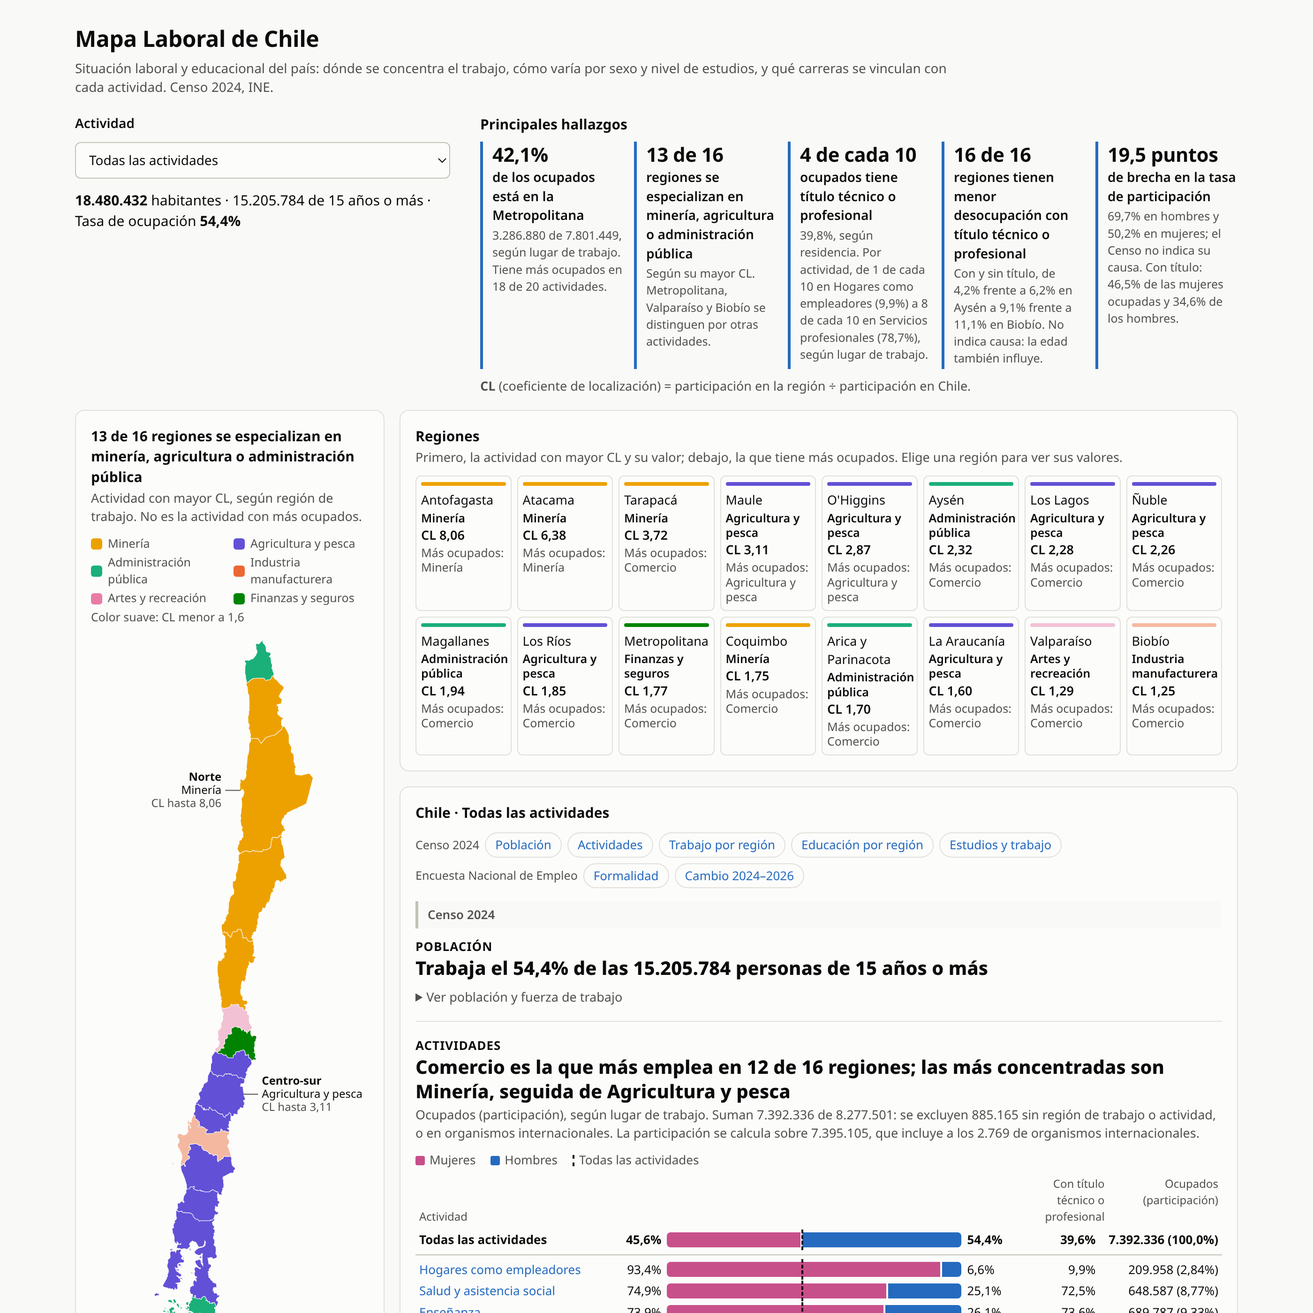
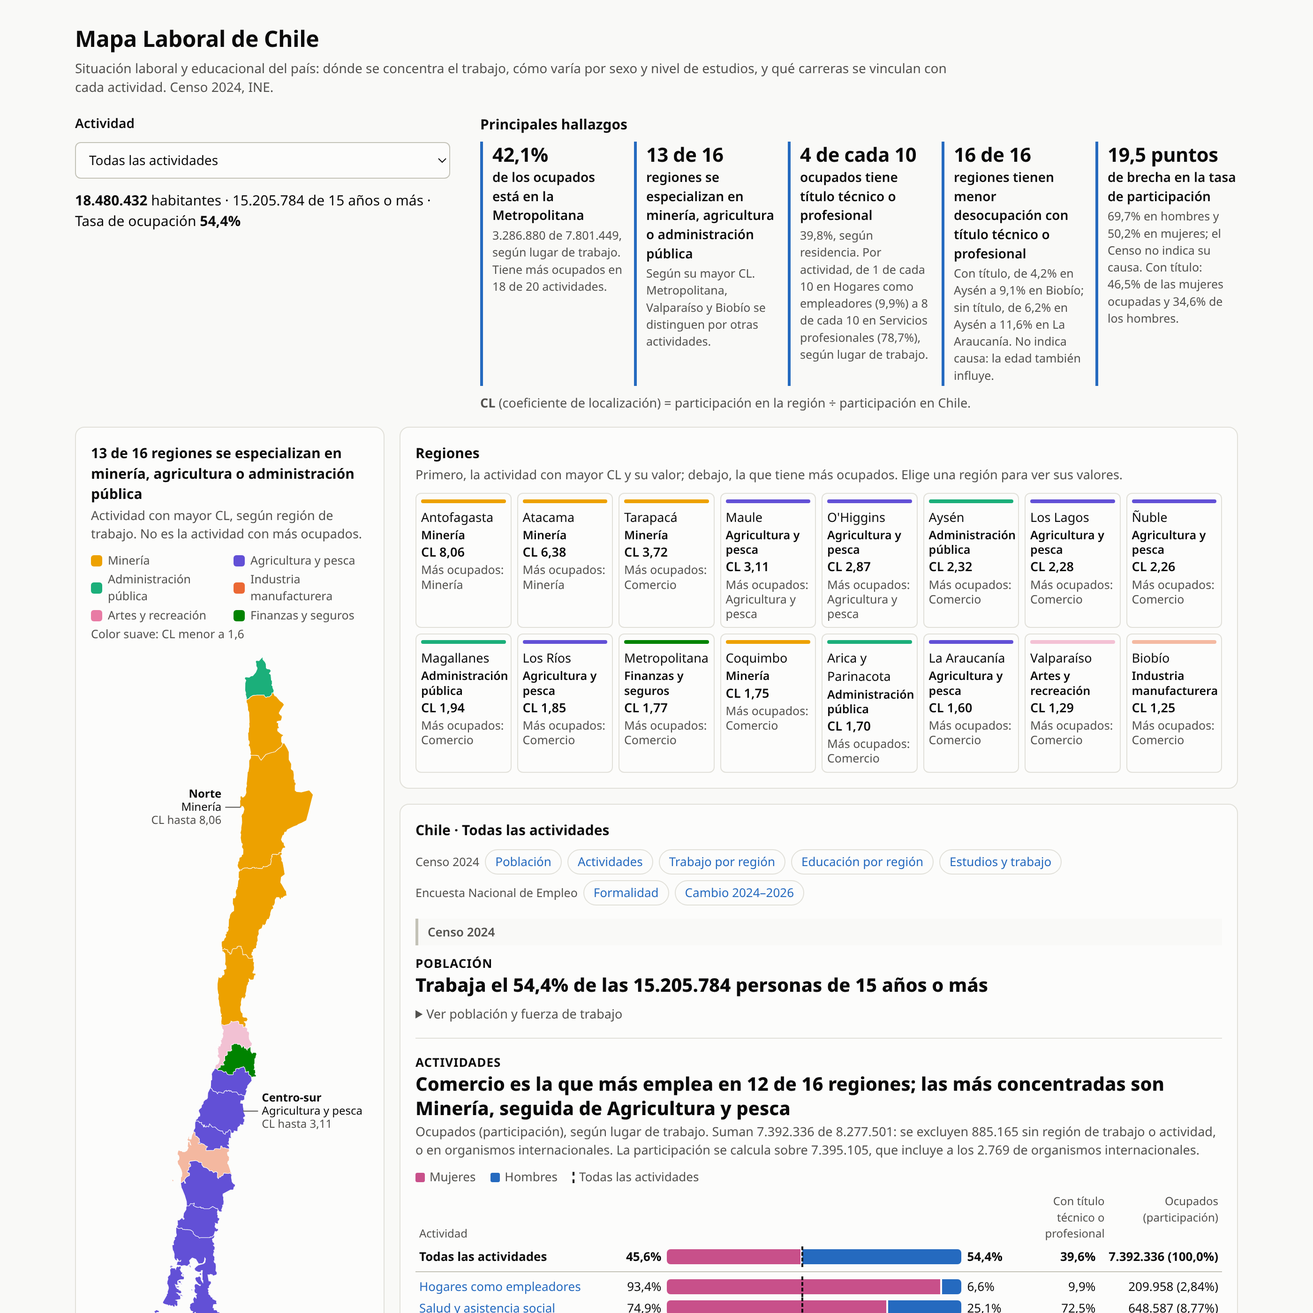
Aclara el gráfico de dónde trabajan los ocupados y separa los rangos de desocupación por título
- La leyenda del traslado describe la medida sin afirmar traslados; la nota y el texto emergente dan la cifra directa (126 por cada 100 en Antofagasta, 94 en Chile).
- La desocupación con y sin título se da en dos rangos, cada uno con sus extremos: sin título, el máximo es La Araucanía (11,6%), no Biobío.

diff --git a/docs/index.html b/docs/index.html
@@ -404,7 +404,7 @@ function pintarResumen(){
    `${num(EST.pct_con_titulo,1)}%, según residencia. Por actividad, de ${deCada10(conTitulo(tMin.niveles))} en ${esc(tMin.corto)} (${num(conTitulo(tMin.niveles),1)}%) `+
    `a ${deCada10(conTitulo(tMax.niveles))} en ${esc(tMax.corto)} (${num(conTitulo(tMax.niveles),1)}%), según lugar de trabajo.`],
   [`${ed.menor} de ${ed.n}`,"regiones tienen menor desocupación con título técnico o profesional",
-   `Con y sin título, ${ed.rango}. No indica causa: la edad también influye.`],
+   `Con título, ${ed.con}; sin título, ${ed.sin}. No indica causa: la edad también influye.`],
   [`${num(brecha,1)} puntos`,"de brecha en la tasa de participación",
    `${num(sx.hombres.tasa_participacion,1)}% en hombres y ${num(sx.mujeres.tasa_participacion,1)}% en mujeres; el Censo no indica su causa. `+
    `Con título: ${num(EST.sexo.mujeres,1)}% de las mujeres ocupadas y ${num(EST.sexo.hombres,1)}% de los hombres.`]]
@@ -449,10 +449,13 @@ function pintar(){
 }
 // Relación entre las dos realidades, región por región: se escribe desde los datos para no afirmar más de lo que muestran.
 function extremosDesoc(){const d=Object.entries(EST.desocupacion_titulo),menor=d.filter(([,v])=>v[0]<v[1]).length;
- const [a,va]=d.reduce((m,x)=>x[1][0]<m[1][0]?x:m),[b,vb]=d.reduce((m,x)=>x[1][0]>m[1][0]?x:m);
- return {menor,n:d.length,rango:`de ${num(va[0],1)}% frente a ${num(va[1],1)}% en ${nomReg(Number(a))} a ${num(vb[0],1)}% frente a ${num(vb[1],1)}% en ${nomReg(Number(b))}`}}
+ // Un rango por grupo, cada uno con sus extremos: con un solo rango (por la tasa con título), Biobío parecía la región
+ // con más desocupación sin título, que es La Araucanía, y cuatro cifras en una línea no se leían a simple vista.
+ const rango=i=>{const [a,va]=d.reduce((m,x)=>x[1][i]<m[1][i]?x:m),[b,vb]=d.reduce((m,x)=>x[1][i]>m[1][i]?x:m);
+  return `de ${num(va[i],1)}% en ${nomReg(Number(a))} a ${num(vb[i],1)}% en ${nomReg(Number(b))}`};
+ return {menor,n:d.length,con:rango(0),sin:rango(1)}}
 function desocTitulo(){const e=extremosDesoc();
- return `${e.menor===e.n?`En las ${e.n} regiones`:`En ${e.menor} de ${e.n} regiones`}, la tasa de desocupación es menor con título técnico o profesional que sin título superior: va ${e.rango}.`}
+ return `${e.menor===e.n?`En las ${e.n} regiones`:`En ${e.menor} de ${e.n} regiones`}, la tasa de desocupación es menor con título técnico o profesional que sin título superior. Con título va ${e.con}; sin título, ${e.sin}.`}
 // Evolución según ENE: las frases salen de la lectura de cada fila, que solo dice "sube" o "baja" si el rango
 // entero queda a un lado del cero.
 // "Dentro del margen" y no "sin cambio claro": dice por qué no se afirma un cambio, aunque las columnas difieran.
@@ -665,21 +668,26 @@ function graficoSituacionRegion(){const ch=POB.chile,tasa=d=>d.tasa_desocupacion
 // entregar trabajadores. Supone que esa falta de dato pesa igual en cada región. Barras desde un centro (igual que
 // Chile) con dos colores, uno por sentido. La escala es la misma a ambos lados, para no agrandar las diferencias chicas,
 // y el centro se corre a la izquierda porque ninguna región baja de −10%: así el espacio va a las barras.
+// La leyenda describe la medida y no afirma traslados: una barra negativa también puede venir de más ocupados sin región de trabajo.
 function graficoTraslado(){const ch=POB.chile,base=ch.lugar_trabajo/ch.trabajan,dif=x=>100*(x.lugar_trabajo/x.trabajan/base-1);
  const filas=DATOS.orden.map(r=>[r,POB.regiones[r],dif(POB.regiones[r])]).sort((a,b)=>b[2]-a[2]||a[0]-b[0]);
  const lo=Math.min(0,Math.floor(filas[filas.length-1][2]/10)*10),hi=Math.max(0,Math.ceil(filas[0][2]/10)*10),cero=100*-lo/(hi-lo),ancho=v=>100*Math.abs(v)/(hi-lo);
  // El signo sale de la cifra publicada: Maule (−0,04) se lee 0,0%, no −0,0%.
  const fila=([r,x,v])=>{const r1=Math.round(10*v)/10,txt=`${r1>0?"+":r1<0?"−":""}${num(Math.abs(r1),1)}%`,t=nomReg(r);
-  const partes=[`${num(x.lugar_trabajo)} ocupados trabajan en la región`,`${num(x.trabajan)} ocupados viven en ella`,`${txt} frente a Chile`];
+  const partes=[`${num(x.lugar_trabajo)} ocupados trabajan en la región`,`${num(x.trabajan)} ocupados viven en ella`,
+   `${num(100*x.lugar_trabajo/x.trabajan,0)} trabajan por cada 100 que viven (Chile: ${num(100*base,0)})`,`${txt} frente a Chile`];
   return `<button class="cl-fila tr-fila" data-r="${r}" data-tip="${`<strong>${t}</strong><br>${partes.join("<br>")}`.replace(/"/g,"&quot;")}" aria-label="${t}: ${partes.join(", ")}">`+
    `<span class="cl-nombre">${t}</span><span class="tr-barra" aria-hidden="true"><b style="left:${cero}%"></b>`+
    (v>=0?`<i class="recibe" style="left:${cero}%;width:${ancho(v)}%"></i><span class="cl-valor" style="left:calc(${cero+ancho(v)}% + 6px)">${txt}</span>`
         :`<i class="entrega" style="right:${100-cero}%;width:${ancho(v)}%"></i><span class="cl-valor" style="right:calc(${100-cero+ancho(v)}% + 6px)">${txt}</span>`)+`</span></button>`};
  return `<figure class="graf-cl" style="margin-left:0;margin-right:0"><figcaption class="gs-leyenda"><span><strong style="color:var(--t1)">Dónde trabajan los ocupados de cada región</strong></span>`+
-  `<span><i class="entrega"></i>Sus ocupados trabajan en otras regiones</span><span><i class="recibe"></i>Recibe ocupados de otras regiones</span></figcaption>`+
+  `<span><i class="entrega"></i>Trabajan en ella menos de los que viven, frente a Chile</span><span><i class="recibe"></i>Trabajan en ella más de los que viven, frente a Chile</span></figcaption>`+
   filas.map(fila).join("")+`</figure>`+
-  `<p class="nota" style="margin:2px 0 8px">Ocupados que trabajan en la región por cada uno que vive en ella, comparado con Chile (0 = igual que Chile). `+
-  `Se compara con Chile porque ${num(100*(1-base),1)}% de los ocupados no tiene región de trabajo informada.</p>`}
+  // El % es un índice frente a Chile y se leía como "34% más trabajadores": el ejemplo da la cifra directa.
+  `<p class="nota" style="margin:2px 0 8px">Ocupados que trabajan en la región por cada 100 que viven en ella, comparado con Chile (0 = igual que Chile). `+
+  `Por ejemplo, en ${nomReg(filas[0][0])} trabajan ${num(100*filas[0][1].lugar_trabajo/filas[0][1].trabajan,0)} por cada 100 que viven, y en Chile ${num(100*base,0)}: `+
+  `${num(filas[0][2],1)}% más. Se compara con Chile porque ${num(100*(1-base),1)}% de los ocupados no tiene región de trabajo informada, `+
+  `y se supone que esa falta de dato pesa igual en cada región: donde pese más, la barra baja aunque sus ocupados no trabajen en otra región.</p>`}
 // Educación por región: barras apiladas solo con la parte titulada (profesional abajo, técnico encima), de mayor a menor
 // % con título, con "sin título superior" como cifra a la derecha para que los tres niveles sumen 100 a la vista.
 // Se descartaron las barras 100%: sin título ocupa 67% a 79% de cada barra y la diferencia entre regiones (12 puntos)

diff --git a/src/Visualizacion/web/js/vistas/resumen.js b/src/Visualizacion/web/js/vistas/resumen.js
@@ -5,10 +5,13 @@ Vista inicial: Chile y todas las actividades.
 */
 // Relación entre las dos realidades, región por región: se escribe desde los datos para no afirmar más de lo que muestran.
 function extremosDesoc(){const d=Object.entries(EST.desocupacion_titulo),menor=d.filter(([,v])=>v[0]<v[1]).length;
- const [a,va]=d.reduce((m,x)=>x[1][0]<m[1][0]?x:m),[b,vb]=d.reduce((m,x)=>x[1][0]>m[1][0]?x:m);
- return {menor,n:d.length,rango:`de ${num(va[0],1)}% frente a ${num(va[1],1)}% en ${nomReg(Number(a))} a ${num(vb[0],1)}% frente a ${num(vb[1],1)}% en ${nomReg(Number(b))}`}}
+ // Un rango por grupo, cada uno con sus extremos: con un solo rango (por la tasa con título), Biobío parecía la región
+ // con más desocupación sin título, que es La Araucanía, y cuatro cifras en una línea no se leían a simple vista.
+ const rango=i=>{const [a,va]=d.reduce((m,x)=>x[1][i]<m[1][i]?x:m),[b,vb]=d.reduce((m,x)=>x[1][i]>m[1][i]?x:m);
+  return `de ${num(va[i],1)}% en ${nomReg(Number(a))} a ${num(vb[i],1)}% en ${nomReg(Number(b))}`};
+ return {menor,n:d.length,con:rango(0),sin:rango(1)}}
 function desocTitulo(){const e=extremosDesoc();
- return `${e.menor===e.n?`En las ${e.n} regiones`:`En ${e.menor} de ${e.n} regiones`}, la tasa de desocupación es menor con título técnico o profesional que sin título superior: va ${e.rango}.`}
+ return `${e.menor===e.n?`En las ${e.n} regiones`:`En ${e.menor} de ${e.n} regiones`}, la tasa de desocupación es menor con título técnico o profesional que sin título superior. Con título va ${e.con}; sin título, ${e.sin}.`}
 // Evolución según ENE: las frases salen de la lectura de cada fila, que solo dice "sube" o "baja" si el rango
 // entero queda a un lado del cero.
 // "Dentro del margen" y no "sin cambio claro": dice por qué no se afirma un cambio, aunque las columnas difieran.
@@ -221,21 +224,26 @@ function graficoSituacionRegion(){const ch=POB.chile,tasa=d=>d.tasa_desocupacion
 // entregar trabajadores. Supone que esa falta de dato pesa igual en cada región. Barras desde un centro (igual que
 // Chile) con dos colores, uno por sentido. La escala es la misma a ambos lados, para no agrandar las diferencias chicas,
 // y el centro se corre a la izquierda porque ninguna región baja de −10%: así el espacio va a las barras.
+// La leyenda describe la medida y no afirma traslados: una barra negativa también puede venir de más ocupados sin región de trabajo.
 function graficoTraslado(){const ch=POB.chile,base=ch.lugar_trabajo/ch.trabajan,dif=x=>100*(x.lugar_trabajo/x.trabajan/base-1);
  const filas=DATOS.orden.map(r=>[r,POB.regiones[r],dif(POB.regiones[r])]).sort((a,b)=>b[2]-a[2]||a[0]-b[0]);
  const lo=Math.min(0,Math.floor(filas[filas.length-1][2]/10)*10),hi=Math.max(0,Math.ceil(filas[0][2]/10)*10),cero=100*-lo/(hi-lo),ancho=v=>100*Math.abs(v)/(hi-lo);
  // El signo sale de la cifra publicada: Maule (−0,04) se lee 0,0%, no −0,0%.
  const fila=([r,x,v])=>{const r1=Math.round(10*v)/10,txt=`${r1>0?"+":r1<0?"−":""}${num(Math.abs(r1),1)}%`,t=nomReg(r);
-  const partes=[`${num(x.lugar_trabajo)} ocupados trabajan en la región`,`${num(x.trabajan)} ocupados viven en ella`,`${txt} frente a Chile`];
+  const partes=[`${num(x.lugar_trabajo)} ocupados trabajan en la región`,`${num(x.trabajan)} ocupados viven en ella`,
+   `${num(100*x.lugar_trabajo/x.trabajan,0)} trabajan por cada 100 que viven (Chile: ${num(100*base,0)})`,`${txt} frente a Chile`];
   return `<button class="cl-fila tr-fila" data-r="${r}" data-tip="${`<strong>${t}</strong><br>${partes.join("<br>")}`.replace(/"/g,"&quot;")}" aria-label="${t}: ${partes.join(", ")}">`+
    `<span class="cl-nombre">${t}</span><span class="tr-barra" aria-hidden="true"><b style="left:${cero}%"></b>`+
    (v>=0?`<i class="recibe" style="left:${cero}%;width:${ancho(v)}%"></i><span class="cl-valor" style="left:calc(${cero+ancho(v)}% + 6px)">${txt}</span>`
         :`<i class="entrega" style="right:${100-cero}%;width:${ancho(v)}%"></i><span class="cl-valor" style="right:calc(${100-cero+ancho(v)}% + 6px)">${txt}</span>`)+`</span></button>`};
  return `<figure class="graf-cl" style="margin-left:0;margin-right:0"><figcaption class="gs-leyenda"><span><strong style="color:var(--t1)">Dónde trabajan los ocupados de cada región</strong></span>`+
-  `<span><i class="entrega"></i>Sus ocupados trabajan en otras regiones</span><span><i class="recibe"></i>Recibe ocupados de otras regiones</span></figcaption>`+
+  `<span><i class="entrega"></i>Trabajan en ella menos de los que viven, frente a Chile</span><span><i class="recibe"></i>Trabajan en ella más de los que viven, frente a Chile</span></figcaption>`+
   filas.map(fila).join("")+`</figure>`+
-  `<p class="nota" style="margin:2px 0 8px">Ocupados que trabajan en la región por cada uno que vive en ella, comparado con Chile (0 = igual que Chile). `+
-  `Se compara con Chile porque ${num(100*(1-base),1)}% de los ocupados no tiene región de trabajo informada.</p>`}
+  // El % es un índice frente a Chile y se leía como "34% más trabajadores": el ejemplo da la cifra directa.
+  `<p class="nota" style="margin:2px 0 8px">Ocupados que trabajan en la región por cada 100 que viven en ella, comparado con Chile (0 = igual que Chile). `+
+  `Por ejemplo, en ${nomReg(filas[0][0])} trabajan ${num(100*filas[0][1].lugar_trabajo/filas[0][1].trabajan,0)} por cada 100 que viven, y en Chile ${num(100*base,0)}: `+
+  `${num(filas[0][2],1)}% más. Se compara con Chile porque ${num(100*(1-base),1)}% de los ocupados no tiene región de trabajo informada, `+
+  `y se supone que esa falta de dato pesa igual en cada región: donde pese más, la barra baja aunque sus ocupados no trabajen en otra región.</p>`}
 // Educación por región: barras apiladas solo con la parte titulada (profesional abajo, técnico encima), de mayor a menor
 // % con título, con "sin título superior" como cifra a la derecha para que los tres niveles sumen 100 a la vista.
 // Se descartaron las barras 100%: sin título ocupa 67% a 79% de cada barra y la diferencia entre regiones (12 puntos)

diff --git a/src/Visualizacion/web/js/mapa.js b/src/Visualizacion/web/js/mapa.js
@@ -49,7 +49,7 @@ function pintarResumen(){
    `${num(EST.pct_con_titulo,1)}%, según residencia. Por actividad, de ${deCada10(conTitulo(tMin.niveles))} en ${esc(tMin.corto)} (${num(conTitulo(tMin.niveles),1)}%) `+
    `a ${deCada10(conTitulo(tMax.niveles))} en ${esc(tMax.corto)} (${num(conTitulo(tMax.niveles),1)}%), según lugar de trabajo.`],
   [`${ed.menor} de ${ed.n}`,"regiones tienen menor desocupación con título técnico o profesional",
-   `Con y sin título, ${ed.rango}. No indica causa: la edad también influye.`],
+   `Con título, ${ed.con}; sin título, ${ed.sin}. No indica causa: la edad también influye.`],
   [`${num(brecha,1)} puntos`,"de brecha en la tasa de participación",
    `${num(sx.hombres.tasa_participacion,1)}% en hombres y ${num(sx.mujeres.tasa_participacion,1)}% en mujeres; el Censo no indica su causa. `+
    `Con título: ${num(EST.sexo.mujeres,1)}% de las mujeres ocupadas y ${num(EST.sexo.hombres,1)}% de los hombres.`]]

diff --git a/src/Visualizacion/controles.py b/src/Visualizacion/controles.py
@@ -139,8 +139,8 @@ def validar(datos: dict, geo: dict, html: str, codigo_js: dict[str, str], sin_li
         "Educación por región: Chile 28,2% con título": (lambda c: round(100 * (c[0] + c[1]) / sum(c), 1) == 28.2)(datos["estudios"]["educacion"]["chile"]),
         "Hallazgos: 4 de cada 10 ocupados con título; 1 de cada 10 en Hogares y 8 de cada 10 en Servicios profesionales": (lambda p: de_cada_10(datos["estudios"]["pct_con_titulo"]) == 4 and (de_cada_10(min(p)), de_cada_10(max(p))) == (1, 8))(
             [100 * (a["niveles"][0][0] + a["niveles"][1][0]) / sum(f[0] for f in a["niveles"]) for a in datos["actividades"]]),
-        "Desocupación menor con título en las 16 regiones: de Aysén (4,2% y 6,2%) a Biobío (9,1% y 11,1%)": (lambda d: len(d) == 16 and all(c < t for c, t in d.values()) and d["11"] == [4.2, 6.2] and d["8"] == [9.1, 11.1]
-            and min(d, key=lambda r: d[r][0]) == "11" and max(d, key=lambda r: d[r][0]) == "8")(datos["estudios"]["desocupacion_titulo"]),
+        "Desocupación menor con título en las 16 regiones: con título de Aysén (4,2%) a Biobío (9,1%); sin título de Aysén (6,2%) a La Araucanía (11,6%)": (lambda d: len(d) == 16 and all(c < t for c, t in d.values())
+            and [(r, d[r][i]) for i in (0, 1) for r in (min(d, key=lambda r: d[r][i]), max(d, key=lambda r: d[r][i]))] == [("11", 4.2), ("8", 9.1), ("11", 6.2), ("9", 11.6)])(datos["estudios"]["desocupacion_titulo"]),
         "Nivel por actividad: Minería en Chile 82.082 profesionales; Antofagasta 28.576": (lambda a: a["niveles"][0] == [82_082, 30.6, 61_954, 20_128, 27.3, 48.7] and a["regiones"][2]["niveles"][0] == [28_576, 28.0, 21_907, 6_669, 25.3, 43.3])(por_ciiu["B"]),
         "Nivel por actividad: solo faltan 2.757 ocupados sin nivel informado": sum(d["ocupados"] for a in datos["actividades"] for d in a["regiones"].values()) - sum(f[0] for a in datos["actividades"] for d in a["regiones"].values() for f in d["niveles"]) == 2_757,
         "Nivel por actividad: hombres y mujeres suman el total cuando ambos se muestran": all(f[2] + f[3] == f[0] for a in datos["actividades"] for d in [a, *a["regiones"].values()] for f in d["niveles"] if f[2] is not None and f[3] is not None),

diff --git a/docs/nota_de_lectura.md b/docs/nota_de_lectura.md
@@ -38,7 +38,7 @@ La vista inicial resume la población, las 20 actividades, la actividad con mayo
 | **Posible vínculo** | Cumple los dos primeros umbrales de carrera afín, pero con muestra insuficiente y al menos 10 casos. No es un dato firme | CASEN 2024 |
 | **Empleabilidad al 1er año** | % de titulados con ingresos iguales o superiores al sueldo mínimo. Promedio de las instituciones, ponderado por sus títulos de 2021-2023; con 3 o más instituciones se muestra también el rango, de la más baja a la más alta. Solo considera a titulados de hasta 30 años | MiFuturo |
 | **Ingreso medio** | Ingreso bruto mensual medio al 1er y al 5° año, en pesos de septiembre de 2025. Son generaciones distintas, no una evolución. MiFuturo los publica por tipo de institución (universidad, IP o CFT), no por institución, así que no tienen rango. Solo consideran a titulados de hasta 30 años | MiFuturo |
-| **Trabajo por región** | Dos gráficos, según los datos de la tabla. El primero reparte la población de 15 años o más de cada región en ocupados, desocupados, fuera de la fuerza de trabajo y sin dato, según residencia, en barras 100% con el formato de Estudios y trabajo; va de mayor a menor desocupación, con Chile primero y las dos tasas al lado. El segundo compara los ocupados que trabajan en la región con los que viven en ella, frente a Chile: Antofagasta tiene 34,1% más que Chile (recibe ocupados de otras regiones) y Coquimbo 5,4% menos. Se compara con Chile y no se resta directo porque 5,8% de los ocupados no tiene región de trabajo; se supone que esa falta de dato pesa igual en cada región. Las cifras completas están en "Ver cifras". La tasa depende de la edad de la población de cada región | Censo 2024 |
+| **Trabajo por región** | Dos gráficos, según los datos de la tabla. El primero reparte la población de 15 años o más de cada región en ocupados, desocupados, fuera de la fuerza de trabajo y sin dato, según residencia, en barras 100% con el formato de Estudios y trabajo; va de mayor a menor desocupación, con Chile primero y las dos tasas al lado. El segundo compara los ocupados que trabajan en la región con los que viven en ella, frente a Chile: en Antofagasta trabajan 126 por cada 100 que viven y en Chile 94, así que tiene 34,1% más que Chile; Coquimbo tiene 5,4% menos. La leyenda no afirma que los ocupados se trasladen, porque una barra negativa también puede venir de más ocupados sin región de trabajo. Se compara con Chile y no se resta directo porque 5,8% de los ocupados no tiene región de trabajo; se supone que esa falta de dato pesa igual en cada región. Las cifras completas están en "Ver cifras". La tasa depende de la edad de la población de cada región | Censo 2024 |
 | **Situación educacional por región** | Población de 15 años o más por nivel de estudios, según residencia, con nivel y situación laboral informados (15.102.704 personas). Se excluyen 97.157 sin nivel informado y 5.923 sin situación laboral. Incluye a jóvenes que aún estudian, así que el % con título depende de la edad de cada región: 28,2% en Chile, de 21,1% en Maule a 32,9% en la Metropolitana. Es menos que el 39,8% de los ocupados porque esta base incluye a quienes no trabajan; el título de la sección lo dice para que no se confundan. En el gráfico, cada barra apila profesional y técnico desde 0, de mayor a menor % con título, con Chile primero y una línea en su 28,2%; a la derecha va el % sin título superior, para que los tres niveles sumen 100. El profesional va primero porque es donde está casi toda la diferencia (13,4% a 23,1%); el técnico varía de 7,3% a 12,3%. Las cifras completas están en "Ver cifras" | Censo 2024 |
 | **Estudios y trabajo** | Ocupados, tasa de desocupación y tasa de participación por nivel, en Chile. Base: residencia y nivel informado (8.273.406 ocupados). También el % con título de los ocupados por sexo, y la tasa de desocupación con y sin título en cada región: es menor con título en las 16. Un gráfico de barras 100% reparte la población de 15 años o más de cada nivel en ocupados, desocupados y fuera de la fuerza de trabajo, con las tasas al lado; otro, de columnas agrupadas por región (con y sin título, Chile primero con 6,8% y 9,7%), lleva la diferencia en pp bajo cada región y se desliza de lado en pantallas angostas. Las cifras completas están en "Ver cifras". Son diferencias descriptivas: no indican causa | Censo 2024 |
 | **Con título técnico o profesional** | En el gráfico de Actividades, a la derecha de cada barra, % de los ocupados de cada actividad con título técnico o profesional, según lugar de trabajo y con nivel informado. En todas las actividades es 39,6%; el 39,8% de los hallazgos se cuenta por residencia | Censo 2024 |

diff --git a/README.md b/README.md
@@ -6,7 +6,7 @@ Mapa interactivo sobre la situación laboral y educacional de Chile. Muestra dó
 
 La vista inicial resume la población, las 20 actividades (con un gráfico de hombres y mujeres y otro de la región donde más pesa cada una) y la formalidad del trabajo, con un índice de secciones y el hallazgo de cada una como título. Al elegir una actividad, el mapa colorea cada región según su coeficiente de localización (CL). Al elegir una región, se ven sus cifras por sexo y nivel de estudios, y las carreras afines a nivel nacional, cada una con su ficha de titulados, empleabilidad e ingresos.
 
-**Para verlo:** descarga [`docs/index.html`](docs/index.html) y ábrelo en el navegador. Es un solo archivo de 394 KB, sin servidor ni dependencias. Cada vista tiene su propio enlace: por ejemplo, `index.html#B/2` abre Minería en Antofagasta, y el botón "atrás" del navegador vuelve a la vista anterior.
+**Para verlo:** descarga [`docs/index.html`](docs/index.html) y ábrelo en el navegador. Es un solo archivo de 395 KB, sin servidor ni dependencias. Cada vista tiene su propio enlace: por ejemplo, `index.html#B/2` abre Minería en Antofagasta, y el botón "atrás" del navegador vuelve a la vista anterior.
 
 ![Vista inicial del mapa: cada región tiene el color de la actividad que la distingue, junto a los principales hallazgos, la lista de regiones y el gráfico de hombres y mujeres por actividad](docs/mapa.png)
 
